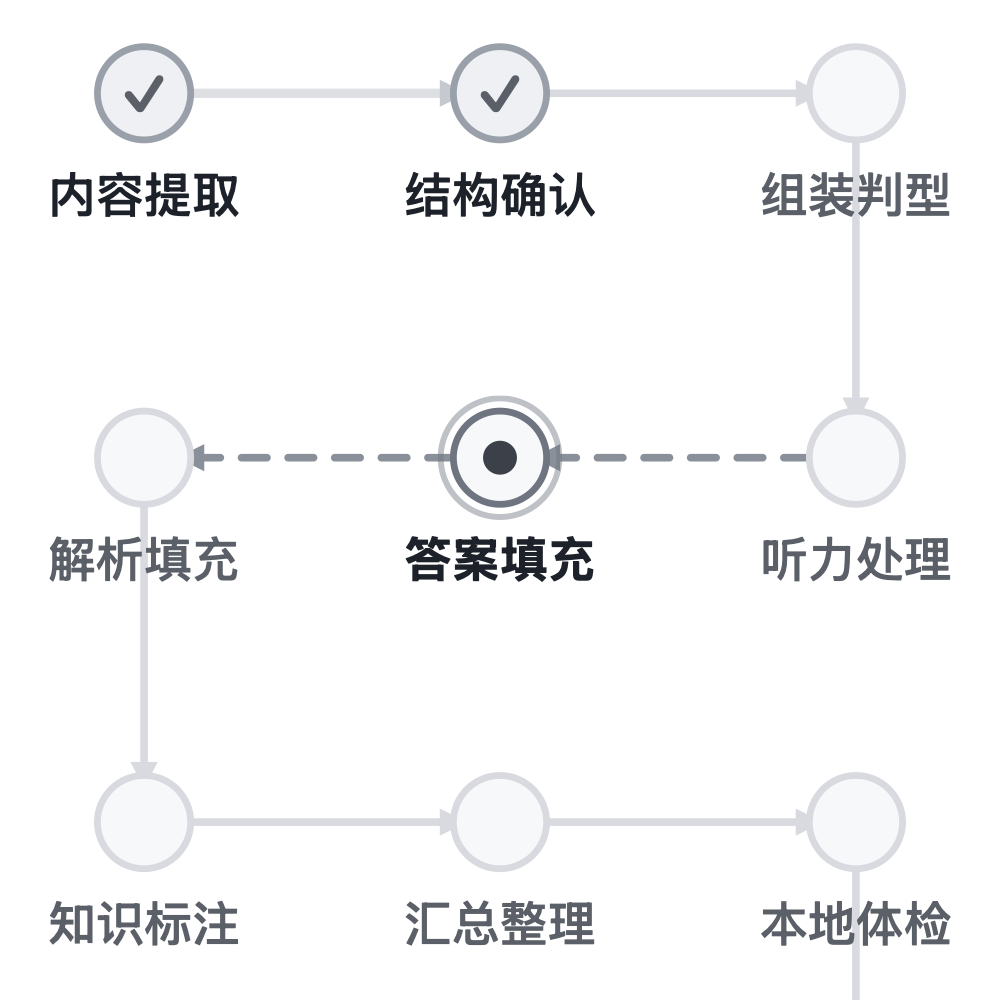
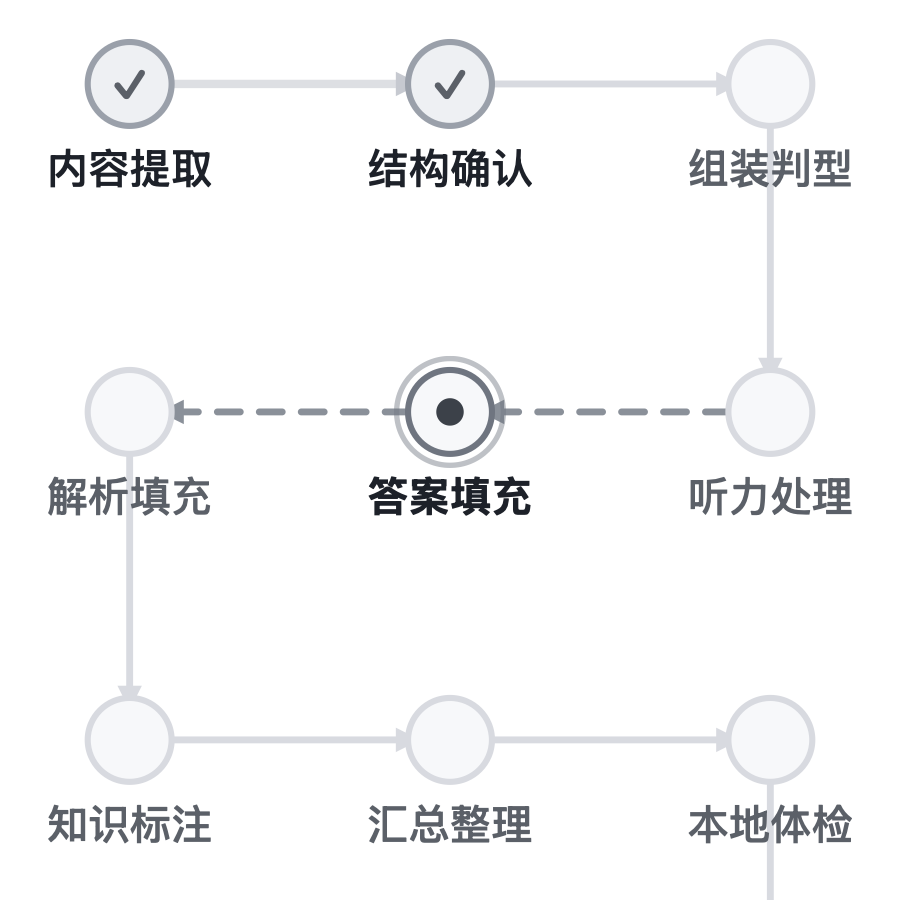
fix: 流程图再缩小、字号贴近正文、悬浮显示子流程并下移

diff --git a/lib/client.js b/lib/client.js
@@ -1033,12 +1033,17 @@ window.__ModuleLoader__.load({
           invalidated: '需重跑', pending: '待处理', running: '处理中', warning: '提示' };
         return map[status] || statusText(status);
       }
-      const flowDiagram = h('div', { style: { width: '75%', maxWidth: '100%', margin: '0 auto', display: 'flex', justifyContent: 'center' } },
+      // 演示态没有真实子步骤时，按分类列出它包含的后台子流程名，供悬浮层说明。
+      function flowOverviewSubsteps(it) {
+        const names = (it.stage_ids || []).map((id) => shortStageName({ id }));
+        return (names.length ? names : [shortStageName(it)]).map((name) => '· ' + name);
+      }
+      const flowDiagram = h('div', { style: { width: '56%', maxWidth: '100%', margin: '18px auto 0', display: 'flex', justifyContent: 'center' } },
         h('svg', {
           viewBox: '0 0 ' + svgW + ' ' + svgH,
           role: 'group',
           // 自适应容器：不设固定宽高，随列宽拉伸，高度按 viewBox 比例自动计算。
-          // 外层收窄到 75%，让整图在卡片里不再显得过大；面板变宽变窄都等比缩放。
+          // 外层收窄到约 56%（再缩一圈），整图更紧凑；面板变宽变窄都等比缩放。
           preserveAspectRatio: 'xMidYMid meet',
           style: { display: 'block', width: '100%', height: 'auto', aspectRatio: svgW + ' / ' + svgH },
           'aria-label': isFlowOverview ? '试卷处理流程总览：' + items.length + ' 个环节' : '试卷处理流程：' + items.length + ' 个阶段，已完成 ' + doneN + ' 个',
@@ -1075,9 +1080,13 @@ window.__ModuleLoader__.load({
                 : done ? 'var(--wf-flow-node-done-ring)'
                   : isCur ? 'var(--wf-flow-node-cur-ring)' : 'var(--wf-flow-node-ring)';
             const lines = flowLabelLines(shortStageName(it));
-            const nodeLabel = isFlowOverview ? shortStageName(it) : [shortStageName(it) + ' · ' + statusText(it.status)]
-              .concat((it.substeps || []).map((m) => shortStageName(m) + ' · ' + compactStatusLabel(m.status)))
-              .join('\n');
+            // 悬浮/键盘读名要展开子流程：先给分类与状态，再逐条列出子步骤「名称·状态」。
+            // 演示态（无任务）没有真实子步骤，给出各分类包含的子流程名作说明。
+            const nodeLabel = isFlowOverview
+              ? (shortStageName(it) + '\n' + flowOverviewSubsteps(it).join('\n'))
+              : [shortStageName(it) + ' · ' + statusText(it.status)]
+                .concat((it.substeps || []).map((m) => shortStageName(m) + ' · ' + compactStatusLabel(m.status)))
+                .join('\n');
             return h('g', { key: it.id, role: 'img', tabIndex: 0, 'aria-label': nodeLabel, 'data-stage-ids': it.stage_ids.join(' '), 'data-status': it.status },
               // 运行中：脉冲外圈持续放大淡出，叠在实心环外侧。
               isCur ? h('circle', { className: 'wf-node-pulse', cx: n.x, cy: n.y, r: R, fill: 'none', stroke: 'var(--wf-flow-node-cur-ring)', strokeWidth: 1.4 }) : null,
@@ -1088,15 +1097,15 @@ window.__ModuleLoader__.load({
                 fill: fillTone,
                 stroke: ring, strokeWidth: 1.6,
               }),
-              done && !warn ? h('text', { x: n.x, y: n.y + 4.5, textAnchor: 'middle', fontSize: 12.5, fontWeight: 700, fill: 'var(--wf-flow-node-done-mark)' }, '✓')
-                : failed ? h('text', { x: n.x, y: n.y + 4.5, textAnchor: 'middle', fontSize: 12.5, fontWeight: 700, fill: 'var(--wf-flow-node-error)' }, '!')
-                  : warn ? h('text', { x: n.x, y: n.y + 4.5, textAnchor: 'middle', fontSize: 12.5, fontWeight: 700, fill: 'var(--wf-flow-node-warn)' }, '!')
-                    : isCur ? h('circle', { className: 'wf-node-dot', cx: n.x, cy: n.y, r: 4, fill: 'var(--wf-flow-node-cur-mark)' }) : null,
-              // 节点名：两行居中；文字随 viewBox 一起缩放，不再溢出到卡片外。
+              done && !warn ? h('text', { x: n.x, y: n.y + 4, textAnchor: 'middle', fontSize: 11, fontWeight: 700, fill: 'var(--wf-flow-node-done-mark)' }, '✓')
+                : failed ? h('text', { x: n.x, y: n.y + 4, textAnchor: 'middle', fontSize: 11, fontWeight: 700, fill: 'var(--wf-flow-node-error)' }, '!')
+                  : warn ? h('text', { x: n.x, y: n.y + 4, textAnchor: 'middle', fontSize: 11, fontWeight: 700, fill: 'var(--wf-flow-node-warn)' }, '!')
+                    : isCur ? h('circle', { className: 'wf-node-dot', cx: n.x, cy: n.y, r: 3.6, fill: 'var(--wf-flow-node-cur-mark)' }) : null,
+              // 节点名：两行居中；字号贴近正文（约 12px），与其他文字大小相近。
               lines.map((line, li) => h('text', {
                 key: 'l' + li,
-                x: n.x, y: n.y + R + 17 + li * 15,
-                textAnchor: 'middle', fontSize: 12,
+                x: n.x, y: n.y + R + 15 + li * 14,
+                textAnchor: 'middle', fontSize: 11.5,
                 fontWeight: isCur ? 700 : 500,
                 fill: isCur ? 'var(--wf-brand)' : (done ? 'var(--dsw-alias-label-primary)' : 'var(--dsw-alias-label-secondary)'),
               }, line)),

diff --git a/CHANGELOG/2026-11-10-idle-flow-svg-adaptive.md b/CHANGELOG/2026-11-10-idle-flow-svg-adaptive.md
@@ -39,3 +39,9 @@
 - 修改：`compactFlowStages` 之后改为蛇形线性布局——12 节点按顺序排成每行 3 个共 4 行，奇偶行左右交替，相邻节点用一段折线相连，整张图就是一条从头到尾的单线（11 段）；尺寸由 `R=11,CW=84,ROW_H=86,PADX=34,PADY=22` 收缩；SVG 外层宽度收窄为 75%（居中、高度等比自适应）。
 - 测试更新：`backend/upload-stage-flow.test.cjs` 改为校验单线 11 段、4 行 3 列、蛇形交替；`backend/upload-flow-redesign.test.cjs` 对应静态断言同步。
 - 验证：`backend/*.test.cjs` 全量 235 项，233 通过、2 跳过、0 失败。
+
+## 追加（再缩一圈 / 字号 / 悬浮子流程 / 下移）
+
+- 用户要求：继续缩小一圈；节点文字与其它文字大小相近；悬浮层显示子流程；图片再往下移一点。
+- 修改：`lib/client.js` 流程图外层宽度 75%→56% 并居中、`margin'18px auto 0'` 下移；节点名称字号 12→11.5（贴近正文），状态符号 12.5→11、呼吸点半径 4→3.6；悬浮 `<title>` 改为“分类名 + 逐条子流程（名称·状态）”，演示态用 `flowOverviewSubsteps` 按分类列出包含的子流程名。
+- 验证：`backend/*.test.cjs` 全量 236 项，234 通过、2 跳过、0 失败（新增“悬浮层列出子流程”回归）。
